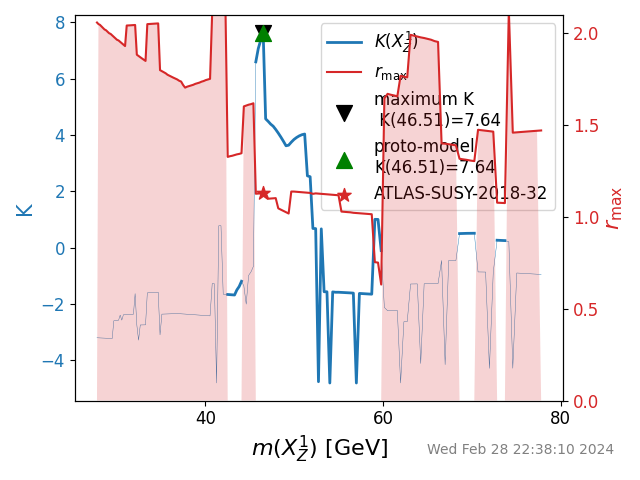
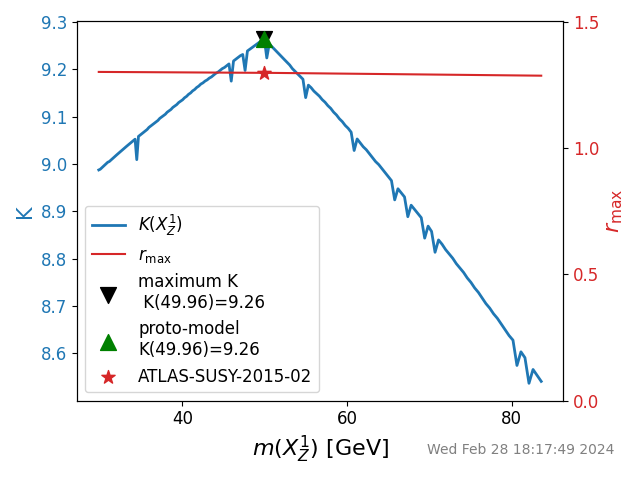
automated update by plotHiscore.py to latest:     K=9.265 Z=3.58 walkerid=698

diff --git a/protomodels/latest/index.html b/protomodels/latest/index.html
@@ -3,8 +3,8 @@
 <center>
 <table><td><h1>Current best protomodel: <i>K</i>=9.26, <i>Z</i>=3.58</h1><td><img height=60px src=https://smodels.github.io//protomodels/logos/protomodel_lego.png></table>
 </center>
-<b><a href=./hiscore.slha>ProtoModel</a> <a href=./pmodel.dict>(dict)</a> produced with <a href=https://smodels.github.io//docs/Validation230>database v2.3.0</a>, combination strategy <a href=./matrix.png>aggressive</a> in walker 698 step 173.</b> llhd plots: <a href=llhdX2Z.png?74619>X2Z</a> <a href=llhdXt.png?74619>Xt</a>
-S plots: <a href=MX2Z.png?74619>X2Z</a> <a href=MXt.png?74619>Xt</a> <a href=MX1Z.png?74619>X1Z</a>
+<b><a href=./hiscore.slha>ProtoModel</a> <a href=./pmodel.dict>(dict)</a> produced with <a href=https://smodels.github.io//docs/Validation230>database v2.3.0</a>, combination strategy <a href=./matrix.png>aggressive</a> in walker 698 step 173.</b> llhd plots: <a href=llhdX2Z.png?81826>X2Z</a> <a href=llhdXt.png?81826>Xt</a>
+S plots: <a href=MX2Z.png?81826>X2Z</a> <a href=MXt.png?81826>Xt</a> <a href=MX1Z.png?81826>X1Z</a>
 <br>
 <table width=80%>
 <tr><td>
@@ -15,11 +15,11 @@ S plots: <a href=MX2Z.png?74619>X2Z</a> <a href=MXt.png?74619>Xt</a> <a href=MX1
 <li><a href=http://cms-results.web.cern.ch/cms-results/public-results/publications/SUS-19-006/index.html>CMS-SUS-19-006-agg</a>:comb:T2tt r=0.71, r<sub>exp</sub>=0.43<br>
 <li><a href=http://cms-results.web.cern.ch/cms-results/public-results/publications/SUS-19-006/index.html>CMS-SUS-19-006</a>:ul:T2tt r=0.64, r<sub>exp</sub>=0.46<br>
 </ul>
-<td><img width=600px src=./texdoc.png?1709194619>
-<br><font size=-1>Last updated: Thu Feb 29 09:16:59 2024</font>
+<td><img width=600px src=./texdoc.png?1709201826>
+<br><font size=-1>Last updated: Thu Feb 29 11:17:06 2024</font>
 </table><table style="width:80%">
-<td width=45%><img height=580px src=./ruler.png?1709194619><td width=55%><img height=340px src=./decays.png?1709194619>
-<font size=-3><iframe type="text/html" height="270px" width="100%s" frameborder="0" src="./rawnumbers.html?1709194619"></iframe></font>
+<td width=45%><img height=580px src=./ruler.png?1709201826><td width=55%><img height=340px src=./decays.png?1709201826>
+<font size=-3><iframe type="text/html" height="270px" width="100%s" frameborder="0" src="./rawnumbers.html?1709201826"></iframe></font>
 </table>
 </body>
 </html>
